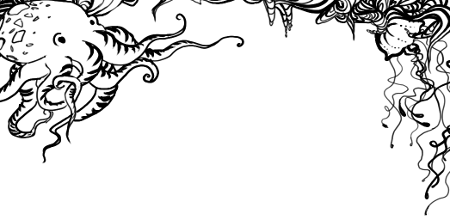
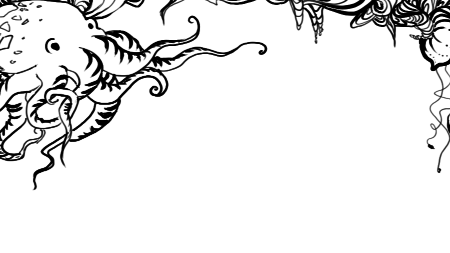
make gradient mask safari-friendly! yay browsers

Changed region(s): [[0.0, 0.0, 1.0, 0.9954], [0.84, 0.6359, 0.8711, 0.6912]]

diff --git a/static/main.css b/static/main.css
@@ -75,27 +75,34 @@ h4 {
 }
 
 .header {
-  display: flex;
   width: 100%;
 }
 .header-image {
   width: 100%;
   position: absolute;
   top: 0px;
-  height: 240px; /* height of bg image */
+  height: 510px; /* height of bg image */
+  -webkit-mask-image: url("./octoswirl.png");
+  -webkit-mask-repeat: no-repeat;
+  -webkit-mask-position: top center;
   mask-image: url("./octoswirl.png");
-  background: linear-gradient(#088bb3, #ff3983);
-  background-repeat: none;
   mask-repeat: no-repeat;
   mask-position: top center;
+  background: linear-gradient(#088bb3, #ff3983);
+  background-repeat: none;
   z-index: -1;
 }
 .header-content {
-  margin: auto;
-  margin-top: 20px;
+  margin-top: 150px;
+  margin-bottom: 20px;
+  display: flex;
+  justify-content: center;
 }
 .header-content h1 {
   margin-left: 20px;
+}
+.header-content .container {
+  flex: 1 0 auto;
 }
 
 .content {
@@ -180,10 +187,10 @@ a.button {
 a.button:hover {
   border: 3px #000 solid;
 }
-
+/* 
 .portfolio .link-list {
   padding-inline-start: 0;
-}
+} */
 
 p + .link-list {
   margin-top: -10px;
@@ -215,7 +222,7 @@ h2 + figure {
   margin-top: 20px;
 }
 
-.portfolio .content {
+/* .portfolio .content {
   margin-top: 50px;
 }
 .portfolio .content .container {
@@ -223,7 +230,7 @@ h2 + figure {
 }
 .portfolio-projects .content .container {
   margin-bottom: 60px;
-}
+} */
 
 .footer a:link,
 .footer a:visited {
@@ -307,17 +314,7 @@ h2 + figure {
   line-height: 1.5em;
 }
 
-@media (min-width: 450px) {
-  .header-image {
-    height: 300px; /* height of bg image */
-    mask-image: url("./octoswirl_sm.png");
-  }
-  .header-content {
-    margin-top: 120px;
-  }
-}
-
-@media (max-width: 580px) {
+/* @media (max-width: 580px) {
   .portfolio p {
     font-size: 14px;
     line-height: 1.3em;
@@ -367,39 +364,56 @@ h2 + figure {
   .portfolio-projects h1 {
     font-size: 30px;
   }
-}
+} */
 
-@media (max-width: 450px) {
-  .portfolio .header-image {
-    background: none;
-  }
-}
-
-@media (min-width: 580px) {
-  .header-content {
-    width: 520px;
-  }
-}
-
-@media (min-width: 800px) {
+@media (max-width: 900px) {
   .header-image {
-    height: 530px; /* height of bg image */
-    mask-image: url("./octoswirl.png");
+    height: 300px; /* height of bg image */
     background: linear-gradient(#088bb3, #ff3983);
+    -webkit-mask-image: url("./octoswirl_sm.png");
+    mask-image: url("./octoswirl_sm.png");
     mask-repeat: no-repeat;
     mask-position: top center;
   }
   .header-content {
-    margin: auto;
-    margin-top: 150px;
+    margin-top: 80px;
     margin-bottom: 20px;
-    width: auto;
+    display: flex;
+    padding: 0 210px;
+  }
+  .header-content .container {
+    width: 400px;
+    flex: 1 1 auto;
   }
   h2 {
     font-size: 28px;
   }
-
   .container {
-    width: 600px;
+    width: auto;
+  }
+}
+
+@media (max-width: 450px) {
+  .header-image {
+    height: 250px; /* height of bg image */
+    -webkit-mask-image: url("./octoswirl_xs.png");
+    mask-image: url("./octoswirl_xs.png");
+  }
+  .header-content {
+    margin-top: 20px;
+    margin-bottom: 20px;
+    width: auto;
+    padding: 0;
+  }
+  h2 {
+    font-size: 20px;
+  }
+  .header-content .container {
+    margin-top: 40px;
+    width: 100%;
+    /* margin-right: 15%; */
+  }
+  .container {
+    width: auto;
   }
 }
